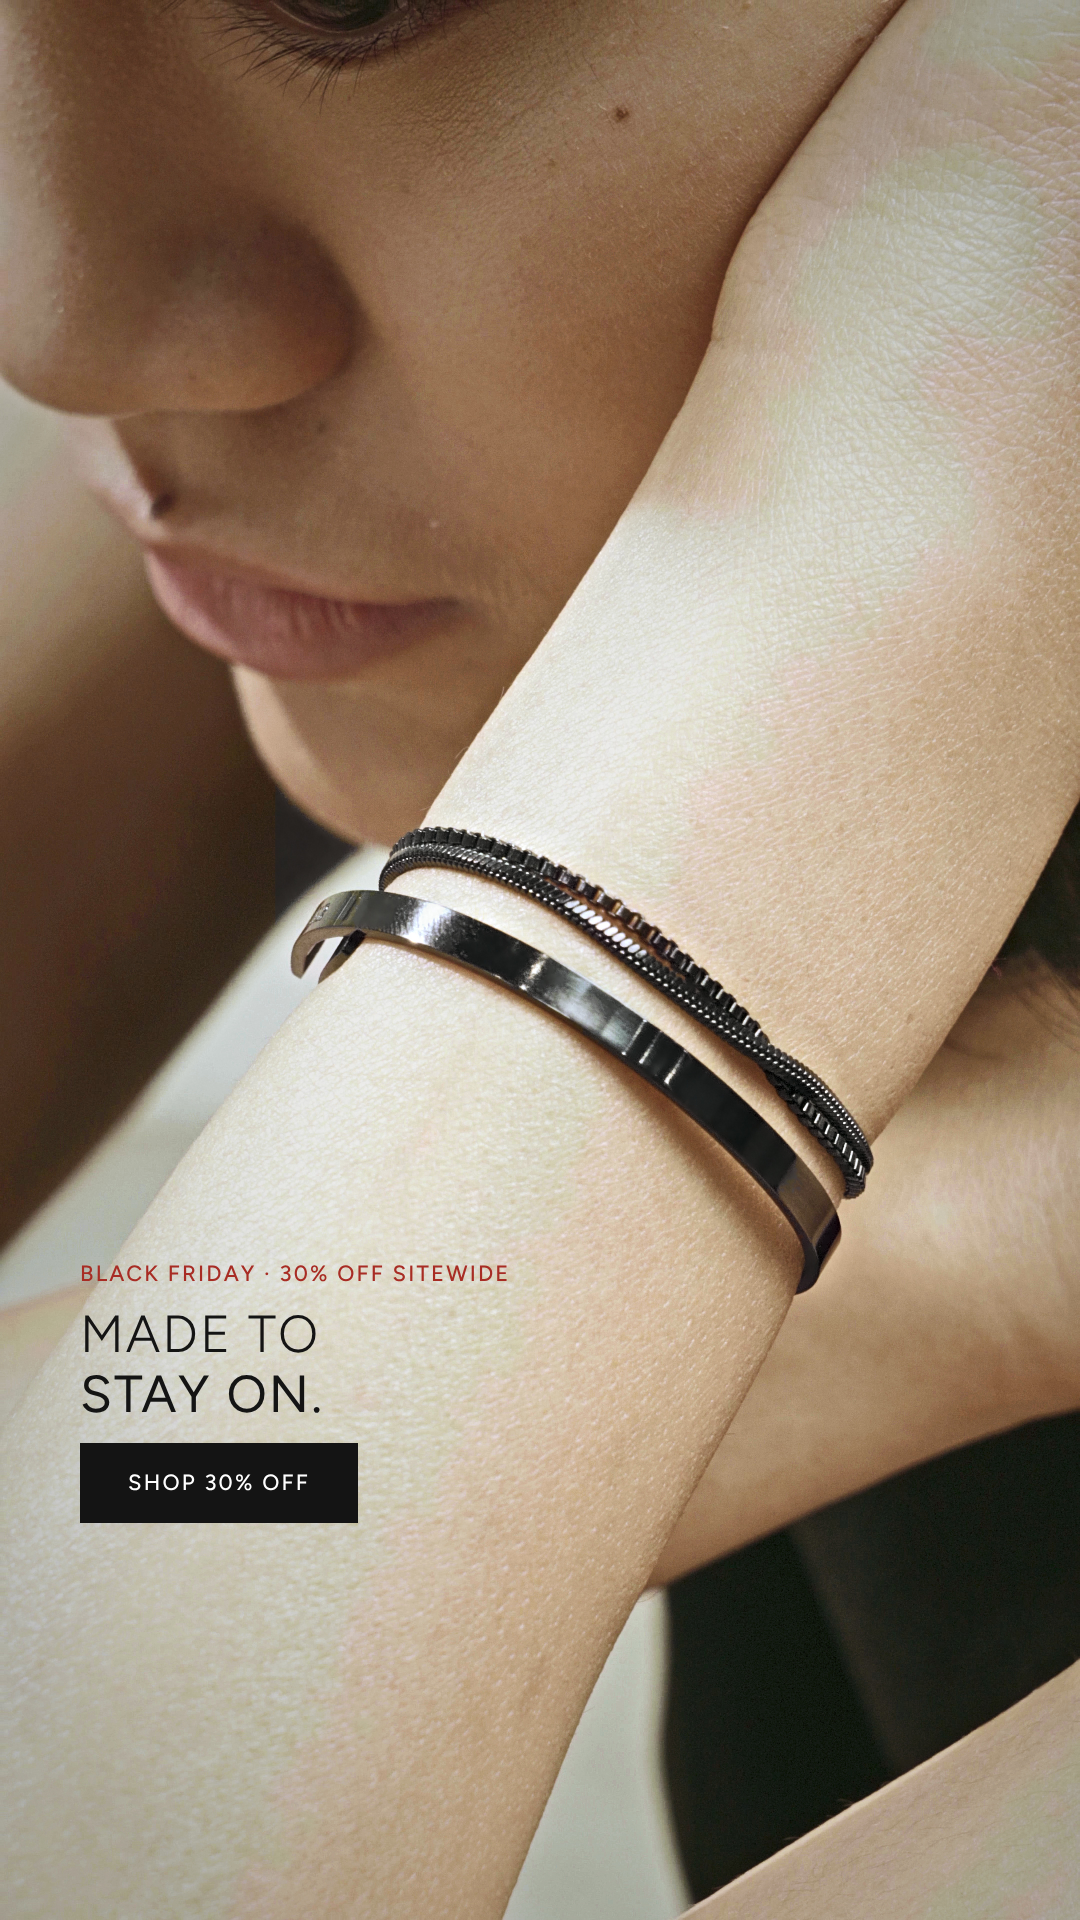
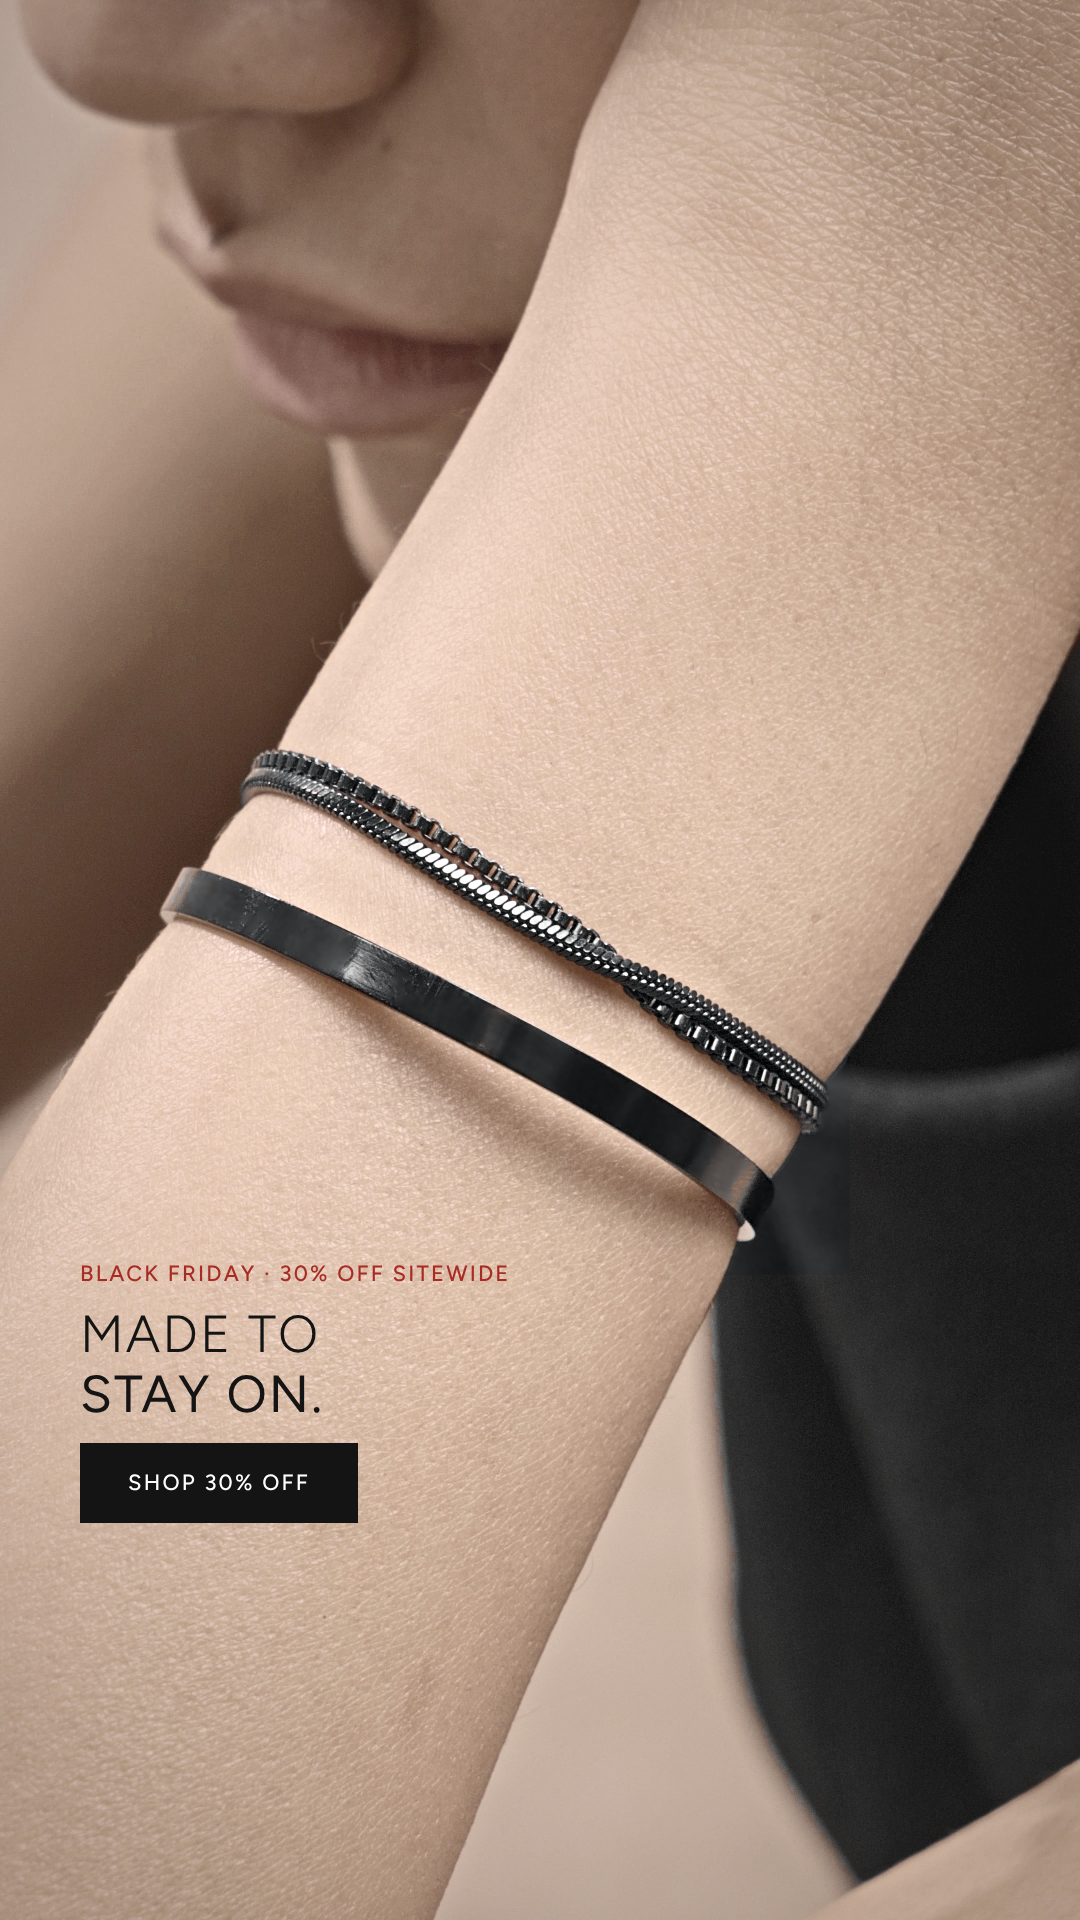
W421 v2: new clips (C2290/C2360/C2376) with pro_grade.py straight from 4K originals; pipeline + rule
Claude-Session: https://claude.ai/code/session_01LtGMNmy7hV4kZNsS3Vsb6Q

diff --git a/bfcm26/canvas/W421-C3.dc.html b/bfcm26/canvas/W421-C3.dc.html
@@ -15,11 +15,11 @@ a{color:#141414}a:hover{color:#000000}
 </style>
 </helmet>
 <div style="width: 1080px; height: 1920px; position: relative; overflow: hidden; background: #E8E2DA; font-family: Figtree, sans-serif; color: #141414">
-<div data-tag="status" style="position: absolute; top: 28px; left: 28px; z-index: 50; display: flex; flex-direction: column; align-items: flex-start; gap: 10px; pointer-events: none"><span style="padding: 12px 20px; background: #8FCBA2; color: #141414; font-family: Figtree, sans-serif; font-size: 28px; font-weight: 600; letter-spacing: 0.1em">CLICKUP ✓ DONE</span><span style="padding: 12px 20px; background: #F4D58A; color: #141414; font-family: Figtree, sans-serif; font-size: 28px; font-weight: 600; letter-spacing: 0.1em">REDONE · FRAME PENDING</span></div>
+<div data-tag="status" style="position: absolute; top: 28px; left: 28px; z-index: 50; display: flex; flex-direction: column; align-items: flex-start; gap: 10px; pointer-events: none"><span style="padding: 12px 20px; background: #8FCBA2; color: #141414; font-family: Figtree, sans-serif; font-size: 28px; font-weight: 600; letter-spacing: 0.1em">CLICKUP ✓ DONE</span><span style="padding: 12px 20px; background: #8FB8E8; color: #141414; font-family: Figtree, sans-serif; font-size: 28px; font-weight: 600; letter-spacing: 0.1em">FRAME · UPLOADING</span></div>
 
 
-<img src="/_blob/02f764019de8e5a0a88682c0ac8f058e" alt="A fingertip touching a wrist with the black 3x Minimal - Stack Set, white bouclé below" style="position: absolute; top: 0; left: 0; width: 1080px; height: 1920px; object-fit: cover; display: block">
-<div style="position: absolute; top: 1260px; left: 80px; width: 920px; display: flex; flex-direction: column; align-items: flex-start; gap: 18px; text-align: left">
+<img src="/_blob/6cef879a48ff972a93ca1fc9e5c9025a" alt="A fingertip reaching for the black 3x Minimal - Stack Set on a sun-kissed wrist" style="position: absolute; top: 0; left: 0; width: 1080px; height: 1920px; object-fit: cover; display: block">
+<div style="position: absolute; top: 330px; left: 80px; width: 920px; display: flex; flex-direction: column; align-items: flex-start; gap: 18px; text-align: left">
 <span style="font-size: 24px; font-weight: 500; letter-spacing: 0.1em; color: #A82C24">BLACK FRIDAY · 30% OFF SITEWIDE</span>
 <h1 style="margin: 0; font-size: 52px; line-height: 1.15; letter-spacing: 0.04em; font-weight: 300; text-transform: uppercase">No code needed.<br><span style="font-weight: 400">Just 30% off.</span></h1>
 <a href="https://cavaier.com/products/3x-minimal-stack-set-for-her" style="display: inline-flex; align-items: center; justify-content: center; height: 80px; padding: 0 48px; background: #141414; color: #FFFFFF; text-decoration: none; font-size: 22px; font-weight: 500; letter-spacing: 0.1em">SHOP 30% OFF</a>

diff --git a/bfcm26/canvas/W421-C1.dc.html b/bfcm26/canvas/W421-C1.dc.html
@@ -15,10 +15,10 @@ a{color:#141414}a:hover{color:#000000}
 </style>
 </helmet>
 <div style="width: 1080px; height: 1920px; position: relative; overflow: hidden; background: #EFEDEA; font-family: Figtree, sans-serif; color: #141414">
-<div data-tag="status" style="position: absolute; top: 28px; left: 28px; z-index: 50; display: flex; flex-direction: column; align-items: flex-start; gap: 10px; pointer-events: none"><span style="padding: 12px 20px; background: #8FCBA2; color: #141414; font-family: Figtree, sans-serif; font-size: 28px; font-weight: 600; letter-spacing: 0.1em">CLICKUP ✓ DONE</span><span style="padding: 12px 20px; background: #F4D58A; color: #141414; font-family: Figtree, sans-serif; font-size: 28px; font-weight: 600; letter-spacing: 0.1em">REDONE · FRAME PENDING</span></div>
+<div data-tag="status" style="position: absolute; top: 28px; left: 28px; z-index: 50; display: flex; flex-direction: column; align-items: flex-start; gap: 10px; pointer-events: none"><span style="padding: 12px 20px; background: #8FCBA2; color: #141414; font-family: Figtree, sans-serif; font-size: 28px; font-weight: 600; letter-spacing: 0.1em">CLICKUP ✓ DONE</span><span style="padding: 12px 20px; background: #8FB8E8; color: #141414; font-family: Figtree, sans-serif; font-size: 28px; font-weight: 600; letter-spacing: 0.1em">FRAME · UPLOADING</span></div>
 
 
-<img src="/_blob/9c43e9e4be47e6321859b4798b280ad1" alt="Fingers wrapped around a sun-kissed wrist wearing the black 3x Minimal - Stack Set" style="position: absolute; top: 0; left: 0; width: 1080px; height: 1090px; object-fit: cover; object-position: 50% 50%; display: block">
+<img src="/_blob/2f8bc96485e26bde0213f930405294a4" alt="Fingers touching the black 3x Minimal - Stack Set on a sun-kissed wrist, white bouclé behind" style="position: absolute; top: 0; left: 0; width: 1080px; height: 1090px; object-fit: cover; object-position: 50% 50%; display: block">
 <div style="position: absolute; top: 1125px; left: 0; width: 1080px; display: flex; flex-direction: column; align-items: center; gap: 18px; text-align: center">
 <img src="/_blob/b5d78a878b48e10609c923597dd1852e" alt="Cavaier" style="width: 110px; height: auto; display: block">
 <span style="font-size: 22px; font-weight: 500; letter-spacing: 0.1em; color: #A82C24">BLACK FRIDAY · 30% OFF SITEWIDE</span>

diff --git a/bfcm26/canvas/W421-C2.dc.html b/bfcm26/canvas/W421-C2.dc.html
@@ -15,10 +15,10 @@ a{color:#141414}a:hover{color:#000000}
 </style>
 </helmet>
 <div style="width: 1080px; height: 1920px; position: relative; overflow: hidden; background: #E9E6E1; font-family: Figtree, sans-serif; color: #141414">
-<div data-tag="status" style="position: absolute; top: 28px; left: 28px; z-index: 50; display: flex; flex-direction: column; align-items: flex-start; gap: 10px; pointer-events: none"><span style="padding: 12px 20px; background: #8FCBA2; color: #141414; font-family: Figtree, sans-serif; font-size: 28px; font-weight: 600; letter-spacing: 0.1em">CLICKUP ✓ DONE</span><span style="padding: 12px 20px; background: #F4D58A; color: #141414; font-family: Figtree, sans-serif; font-size: 28px; font-weight: 600; letter-spacing: 0.1em">REDONE · FRAME PENDING</span></div>
+<div data-tag="status" style="position: absolute; top: 28px; left: 28px; z-index: 50; display: flex; flex-direction: column; align-items: flex-start; gap: 10px; pointer-events: none"><span style="padding: 12px 20px; background: #8FCBA2; color: #141414; font-family: Figtree, sans-serif; font-size: 28px; font-weight: 600; letter-spacing: 0.1em">CLICKUP ✓ DONE</span><span style="padding: 12px 20px; background: #8FB8E8; color: #141414; font-family: Figtree, sans-serif; font-size: 28px; font-weight: 600; letter-spacing: 0.1em">FRAME · UPLOADING</span></div>
 
 
-<img src="/_blob/1d7888b8a93f21b695f5fd35db3f6f6d" alt="Woman resting her face behind her arm, wearing the black 3x Minimal - Stack Set" style="position: absolute; top: 0; left: 0; width: 1080px; height: 1920px; object-fit: cover; display: block">
+<img src="/_blob/7a5948761b2fdba6db705599f39b7180" alt="Lips and a sun-kissed wrist wearing the black 3x Minimal - Stack Set" style="position: absolute; top: 0; left: 0; width: 1080px; height: 1920px; object-fit: cover; display: block">
 <div style="position: absolute; top: 1260px; left: 80px; width: 920px; display: flex; flex-direction: column; align-items: flex-start; gap: 18px; text-align: left">
 <span style="font-size: 22px; font-weight: 500; letter-spacing: 0.1em; color: #A82C24">BLACK FRIDAY · 30% OFF SITEWIDE</span>
 <h1 style="margin: 0; font-size: 52px; line-height: 1.15; letter-spacing: 0.04em; font-weight: 300; text-transform: uppercase">Made to<br><span style="font-weight: 400">stay on.</span></h1>

diff --git a/bfcm26/video-ad/pro_grade.py b/bfcm26/video-ad/pro_grade.py
@@ -1,0 +1,66 @@
+# Pro colour grade for stills cut from video, straight from the 4K camera original (Eli's reference look):
+# even golden sun-kissed skin (no pink/yellow blotches), neutral whites, true blacks, clean full tonal range.
+# usage: pro_grade.py raw16.png out16.png grabcut|global [mask_preview.png]
+#   grabcut: skin found with GrabCut seeded by the warmest pixels (frames with bouclé / walls)
+#   global : the frame is (nearly) all skin, every non-dark pixel is treated as skin
+import sys, subprocess, numpy as np, cv2
+src, out, mode = sys.argv[1:4]; prev = sys.argv[4] if len(sys.argv) > 4 else None
+TA, TB = 7.0, 13.5          # target skin colour (Lab a/b): muted golden tan, hue ~63 (ref: a 10 / b 15 at L~56; lighter skin needs less chroma or it reads orange)
+
+def rd(p):
+    b = subprocess.run(['ffmpeg', '-v', 'error', '-i', p, '-f', 'rawvideo', '-pix_fmt', 'rgb48le', '-'], capture_output=True, check=True).stdout
+    return np.frombuffer(b, np.uint16).reshape(3840, 2160, 3).astype(np.float32) / 65535
+def wr(p, im):
+    y = (np.clip(im, 0, 1) * 65535 + 0.5).astype('<u2')
+    subprocess.run(['ffmpeg', '-v', 'error', '-y', '-f', 'rawvideo', '-pix_fmt', 'rgb48le', '-s', '2160x3840', '-i', '-', '-pix_fmt', 'rgb48be', p], input=y.tobytes(), check=True)
+G = lambda x, s: cv2.GaussianBlur(x, (0, 0), s)
+
+im = rd(src); H, W = im.shape[:2]
+lab = cv2.cvtColor(im, cv2.COLOR_RGB2Lab); L, a, b = lab[..., 0], lab[..., 1], lab[..., 2]
+
+# ---- skin mask ----
+sm = cv2.resize(im, (540, 960), interpolation=cv2.INTER_AREA)
+sl = cv2.cvtColor(G(sm, 3), cv2.COLOR_RGB2Lab); sL, sa, sb = sl[..., 0], sl[..., 1], sl[..., 2]
+sc = np.hypot(sa, sb); sh = np.degrees(np.arctan2(sb, sa))
+if mode == 'global':
+    m = (sL > 25).astype(np.uint8)
+else:
+    warm = (sh > 40) & (sh < 100)
+    gm = np.full(sL.shape, cv2.GC_PR_BGD, np.uint8)
+    gm[warm & (sc > np.percentile(sc[warm], 60))] = cv2.GC_PR_FGD
+    gm[warm & (sc > np.percentile(sc[warm], 80)) & (sL > 35)] = cv2.GC_FGD
+    gm[(sc < np.percentile(sc, 25)) & (sL > 40)] = cv2.GC_BGD
+    gm[sL < 22] = cv2.GC_BGD
+    u8 = (np.clip(sm, 0, 1) * 255).astype(np.uint8)[..., ::-1].copy()
+    cv2.grabCut(u8, gm, None, np.zeros((1, 65)), np.zeros((1, 65)), 6, cv2.GC_INIT_WITH_MASK)
+    m = ((gm == cv2.GC_FGD) | (gm == cv2.GC_PR_FGD)).astype(np.uint8)
+m = cv2.morphologyEx(m, cv2.MORPH_OPEN, np.ones((5, 5), np.uint8))
+skin = np.clip(G(cv2.resize(m.astype(np.float32), (W, H), interpolation=cv2.INTER_LINEAR), 10), 0, 1)
+dark = np.clip((28 - G(L, 4)) / 12, 0, 1)                   # jewelry, black top, hair: stay neutral
+metal = np.clip((3.5 - G(np.hypot(a, b), 2)) / 2.0, 0, 1)    # neutral metal (chain links, cuff) never gets skin colour
+skin *= (1 - dark) * (1 - metal)
+if prev: cv2.imwrite(prev, (cv2.resize(skin, (540, 960)) * 255).astype(np.uint8))
+
+# ---- tone: true blacks, clean whites, gentle S ----
+p1, p99 = np.percentile(L, 0.7), np.percentile(L, 99.7)
+t = np.clip((L - p1) / (p99 - p1), 0, 1)
+t = t + 0.07 * np.sin(np.pi * t) * (t - 0.5) * 2
+L = 100 * (0.035 + 0.945 * t)
+
+# ---- skin colour: only the low-frequency colour moves (blotches go, fine colour detail stays) ----
+al, bl = G(a, 24), G(b, 24)
+ms = skin > 0.6
+am, bm = np.median(al[ms]), np.median(bl[ms])
+k = 1.6                                                      # keep (and slightly boost) natural colour variation: real skin, not paint
+a = a + skin * ((TA + k * 0.6 * (al - am)) - al)
+b = b + skin * ((TB + k * 0.6 * (bl - bm)) - bl)
+L = L - skin * 7.0 * np.clip(L / 80, 0, 1)                  # deeper = sun-kissed tan, highlights keep sheen
+
+# ---- everything else neutral & quiet (graphite brand): whites/greys/blacks lose their cast ----
+rest = 1 - skin
+a = a * (1 - 0.8 * rest); b = b * (1 - 0.8 * rest)
+L = L + rest * (1 - dark) * 4.0 * np.clip((L - 55) / 30, 0, 1)   # light backgrounds a little brighter/cleaner
+
+lab[..., 0], lab[..., 1], lab[..., 2] = L, a, b
+wr(out, cv2.cvtColor(lab, cv2.COLOR_Lab2RGB))
+print('ok', out, 'skin %.2f' % (skin > 0.5).mean(), 'src skin a %.1f b %.1f' % (am, bm))

diff --git a/bfcm26/video-ad/finish.py b/bfcm26/video-ad/finish.py
@@ -1,8 +1,8 @@
-# Option-2 finish for stills cut from video: natural warm skin, light falloff toward the jewelry, tight 1:1 crop.
+# Finish for stills cut from video (after pro_grade.py + retouch.py): light falloff toward the jewelry,
+# midtone micro-contrast, crop. Colour is done in pro_grade.py.
 # usage: finish.py in16.png out.jpg cx,cy crop_w,crop_h out_w,out_h
-#   in16.png : retouch.py output with RETOUCH_SKIN=0 RETOUCH_NR=0 (skin left 100% natural, jewelry pass on)
 #   cx,cy    : jewelry centre (4K px); the light falls off away from it
-#   crop_w,h : crop box in 4K px (keep it >= out size so no upscaling)
+#   crop_w,h : crop box in 4K px (keep it >= out size so no upscaling); cropping is free per ad (Eli: variety)
 import sys, subprocess, numpy as np, cv2
 from PIL import Image
 src, out = sys.argv[1:3]
@@ -11,22 +11,15 @@ b = subprocess.run(['ffmpeg', '-v', 'error', '-i', src, '-f', 'rawvideo', '-pix_
 im = np.frombuffer(b, np.uint16).reshape(3840, 2160, 3).astype(np.float32) / 65535
 H, W = im.shape[:2]
 lab = cv2.cvtColor(im, cv2.COLOR_RGB2Lab)
-L, a, bb = lab[..., 0], lab[..., 1], lab[..., 2]
-hue = np.degrees(np.arctan2(bb, a)); chroma = np.hypot(a, bb)
-skin = ((hue > 50) & (hue < 95) & (chroma > 11) & (chroma < 50) & (L > 25) & (L < 95)).astype(np.uint8)
-skin = cv2.morphologyEx(skin, cv2.MORPH_CLOSE, np.ones((31, 31), np.uint8))
-skin = np.clip(cv2.GaussianBlur(skin.astype(np.float32), (0, 0), 12), 0, 1)
-# 1. natural warm skin (pro reference sits near a 12 / b 17; video grade was a 2 / b 20 = yellow, waxy)
-a += skin * 0.6 * (10.0 - np.median(a[skin > 0.5]))
-bb += skin * 0.6 * (17.0 - np.median(bb[skin > 0.5]))
-# 2. light falloff: brightest on the jewelry, gently darker toward the edges (directional, 3D feel)
+L = lab[..., 0]
+# light falloff: brightest on the jewelry, gently darker toward the edges (directional, 3D feel)
 yy, xx = np.mgrid[0:H, 0:W].astype(np.float32)
 d = np.hypot((xx - cx) / 1100, (yy - cy) / 1500)
-L *= 1 - 0.16 * np.clip(d - 0.35, 0, 1) ** 1.4
-# 3. micro-contrast on midtones (crisp, not crunchy)
+L *= 1 - 0.14 * np.clip(d - 0.35, 0, 1) ** 1.4
+# micro-contrast on midtones (crisp, not crunchy)
 mid = np.exp(-((L - 60) / 30) ** 2)
-L += 0.22 * mid * (L - cv2.GaussianBlur(L, (0, 0), 30))
-lab[..., 0], lab[..., 1], lab[..., 2] = L, a, bb
+L += 0.2 * mid * (L - cv2.GaussianBlur(L, (0, 0), 30))
+lab[..., 0] = L
 rgb = np.clip(cv2.cvtColor(lab, cv2.COLOR_Lab2RGB), 0, 1)
 x0 = int(np.clip(cx - cw / 2, 0, W - cw)); y0 = int(np.clip(cy - ch / 2, 0, H - ch))
 crop = (rgb[y0:y0 + ch, x0:x0 + cw] * 255 + 0.5).astype(np.uint8)

diff --git a/CLAUDE.md b/CLAUDE.md
@@ -48,13 +48,15 @@ Before making any new batch, always ask Eli which method to use, with one short 
   2. Score every frame in a window of about ±0.5 s for sharpness and take the sharpest one, with no motion blur on the links.
   3. Export it as a 16-bit PNG and apply the same grade as the video (tan rule).
   4. Upscale with an AI upscaler only if the crop is smaller than its slot.
-  5. Finish like a macro photo (Eli, W421):
-     - Cropping is free, with no fixed rule (Eli): mix wide shots with context (hands, face, setting) and tight macro crops, so a batch has variety. Never upscale past the 4K source.
-     - Skin stays 100% natural: no smoothing or noise removal, pores and hairs kept (`RETOUCH_SKIN=0 RETOUCH_NR=0 retouch.py`, jewelry precision pass on).
-     - Natural warm skin colour, not the yellow tan (`finish.py`, Lab a≈10 / b≈17).
-     - Light falloff toward the jewelry.
-     - Keep key text clear of the jewelry.
-     - Real pro photos still beat video stills; tell Eli when a batch needs them.
+  5. Grade and finish (Eli, W421 v2, matching his pro reference):
+     - Run `stillrun.sh CLIP TIME BOX grabcut|global`. It picks the sharpest frame, grades it straight from the 4K original with `pro_grade.py`, then runs `retouch.py` with natural skin and the jewelry pass.
+     - Then `finish.py` adds light falloff and does the crop.
+     - The look: muted golden sun-kissed tan (Lab a≈7 / b≈13.5, deeper), never pink or yellow.
+     - Skin colour is even but keeps its natural variation, and pores are never smoothed.
+     - Whites and greys are neutral and blacks are true; everything else stays quiet graphite.
+     - Use `global` when the frame is nearly all skin, `grabcut` when there's bouclé or a wall.
+     - Cropping is free (variety). Never upscale.
+     - Keep the copy clear of the jewelry; move the text block if needed.
   6. Check it at 100%: links crisp with no halos, skin texture real (not plastic), no invented detail. Tune the pass if anything is overdone.
 - For the delivery upload, use the Frame.io API flow under **Delivery**. The RAW footage is read through the public share in a headless browser (FRAME_METHOD.md §4).
 
